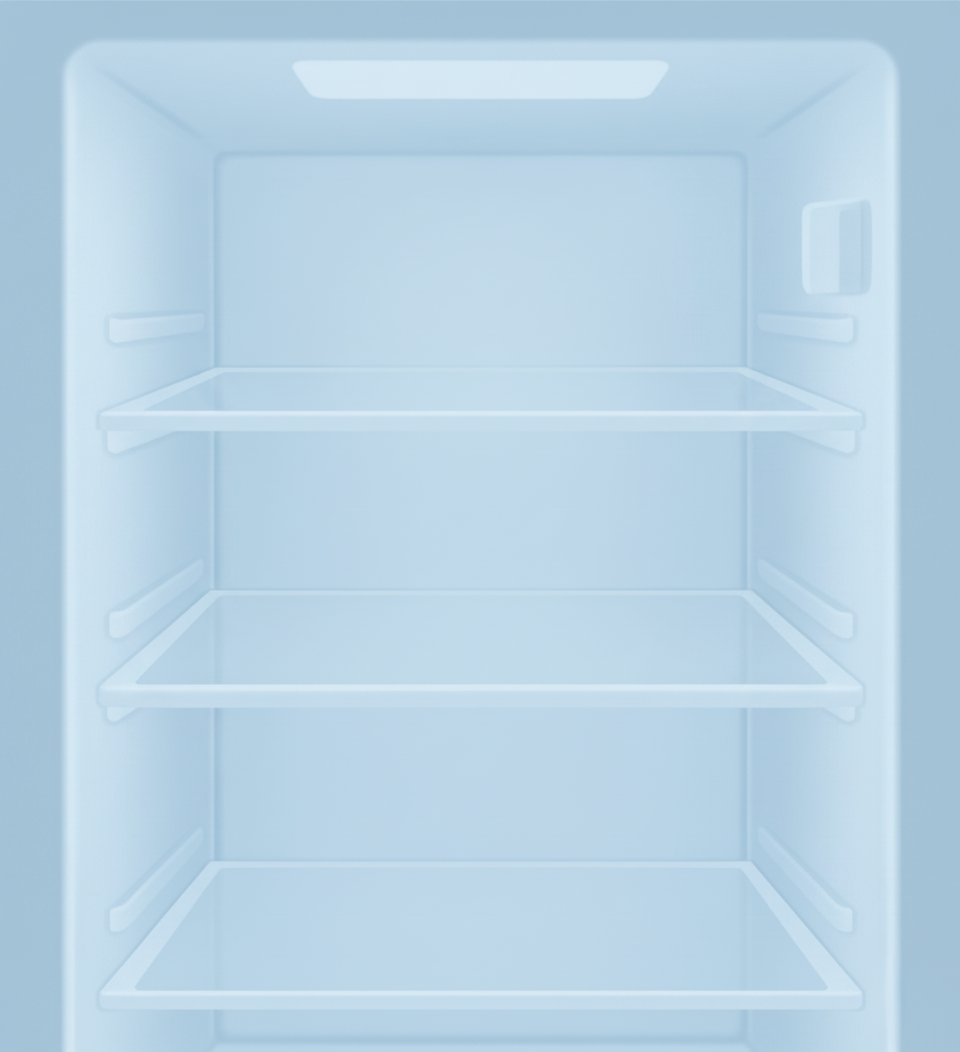
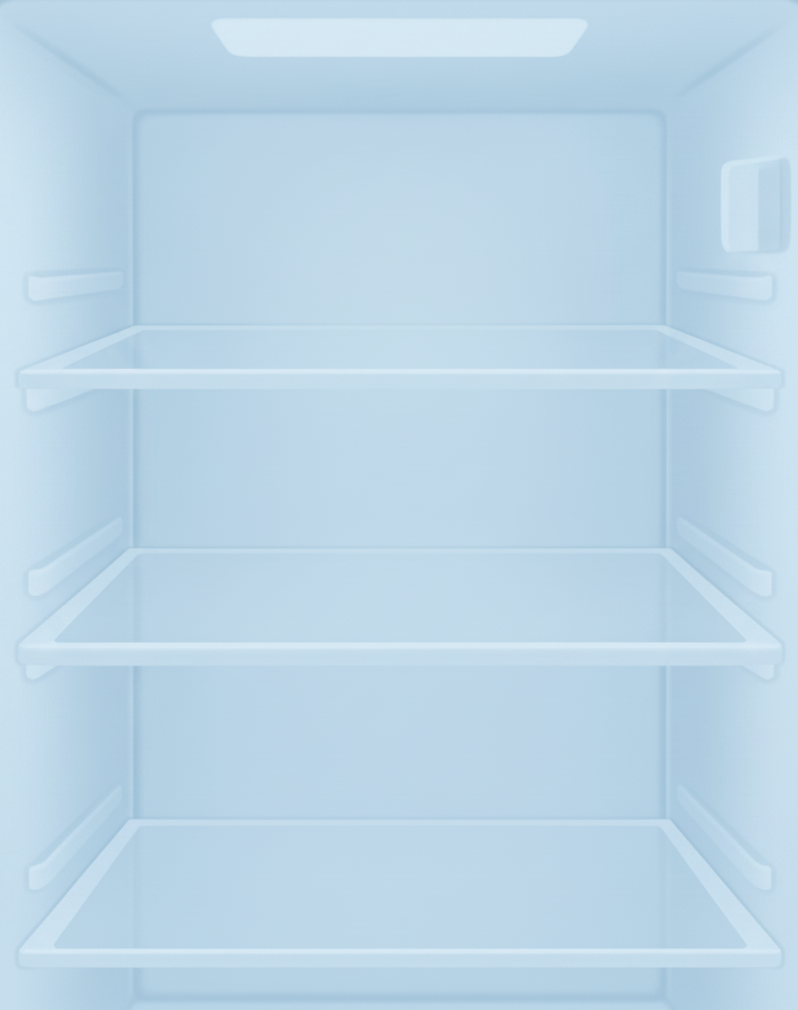
fix: 레시피 없을 때 배경이미지 수정

diff --git a/apps/web/src/app/mypage/recipes/[type]/_components/CookedRecipeList.tsx b/apps/web/src/app/mypage/recipes/[type]/_components/CookedRecipeList.tsx
@@ -46,17 +46,19 @@ export default function CookedRecipeList({
   if (recipes.length === 0) {
     return (
       <div className="relative">
-        <div
-          className="h-[calc(100vh-100px)] max-h-full rounded-[1.25rem] px-3"
-          style={{
-            backgroundImage: `url(${config.noneBackImage})`,
-            backgroundPosition: 'center',
-            backgroundRepeat: 'no-repeat',
-            backgroundSize: '100% 100%',
-          }}
-        >
-          <div className="flex h-full flex-col items-center justify-center">
-            <div className="mb-9 text-center">
+        <div className="relative h-[calc(100vh-100px)] max-h-full rounded-[1.25rem] px-3">
+          <div
+            className="absolute inset-0 rounded-[1.25rem] opacity-70"
+            style={{
+              backgroundImage: `url(${config.noneBackImage})`,
+              backgroundPosition: 'center',
+              backgroundRepeat: 'no-repeat',
+              backgroundSize: '100% 100%',
+            }}
+          />
+
+          <div className="relative flex h-full flex-col items-center justify-center gap-6">
+            <div className="text-center">
               <p className="text-22sb text-gray-900">
                 아직 내가 만든 요리가 없어요
               </p>
@@ -69,8 +71,8 @@ export default function CookedRecipeList({
               <Image
                 src="/mypage/none-refrigerator.png"
                 alt="빈 냉장고"
-                width={142}
-                height={142}
+                width={160}
+                height={160}
                 priority
               />
             </div>

diff --git a/apps/web/src/app/mypage/recipes/[type]/_components/DefaultRecipeList.tsx b/apps/web/src/app/mypage/recipes/[type]/_components/DefaultRecipeList.tsx
@@ -21,16 +21,18 @@ export default function DefaultRecipeList({
   if (recipes.length === 0) {
     return (
       <div className="relative">
-        <div
-          className="h-[calc(100vh-100px)] max-h-full rounded-[1.25rem] px-3"
-          style={{
-            backgroundImage: `url(${config.noneBackImage})`,
-            backgroundPosition: 'center',
-            backgroundRepeat: 'no-repeat',
-            backgroundSize: '100% 100%',
-          }}
-        >
-          <div className="flex h-full flex-col items-center justify-center gap-6">
+        <div className="relative h-[calc(100vh-100px)] max-h-full rounded-[1.25rem] px-3">
+          <div
+            className="absolute inset-0 rounded-[1.25rem] opacity-70"
+            style={{
+              backgroundImage: `url(${config.noneBackImage})`,
+              backgroundPosition: 'center',
+              backgroundRepeat: 'no-repeat',
+              backgroundSize: '100% 100%',
+            }}
+          />
+
+          <div className="relative flex h-full flex-col items-center justify-center gap-6">
             <div className="text-center">
               <p className="text-22sb text-gray-900">
                 아직 {noneRecipeText} 레시피가 없어요
